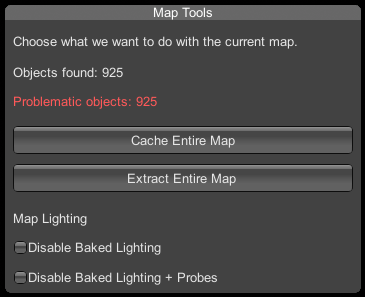
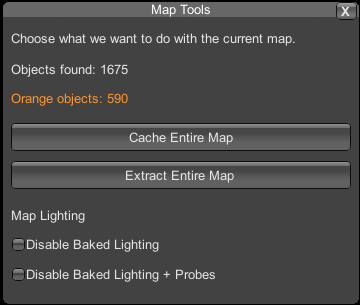
Update Quick Pick picking and settings docs

Changed region(s): [[0.0, 0.0, 1.0, 1.0]]

diff --git a/index.html b/index.html
@@ -361,7 +361,7 @@
     onload="window.pandarinkaTrackGoatCounterPage && window.pandarinkaTrackGoatCounterPage()"></script>
   <script>
     (function () {
-      var docsBuild = "20260809-map-tools-callout-2";
+      var docsBuild = "20260810-quick-pick-400-settings-1";
       var shouldBustDocsCache = true;
       var nativeOpen = XMLHttpRequest.prototype.open;
 

diff --git a/quick-pick.md b/quick-pick.md
@@ -32,9 +32,12 @@ When the pick key is held, Quick Pick blocks camera movement so the viewport doe
 
 The hover preview shows the object area and name. If several objects overlap, the preview shows an index like `1/3`. Scroll the mouse wheel to cycle through the candidates before clicking.
 
-For characters, aim near the head when several characters are close together, overlapping, or playing animations.
+Object colors help you understand what Quick Pick found:
 
-For very small objects, objects behind other objects, or objects inside other objects, move the camera closer, change the angle, or use the mouse wheel to choose the exact candidate.
+- **Purple objects** are standard map objects successfully extracted as independent Studio items.
+- **Orange objects** are map pieces that were originally merged into a larger static mesh for performance. Quick Pick separates them from that combined structure and makes them movable again.
+
+Orange indicates a recovered combined object, not a broken one.
 
 ## Mesh Picking Mode
 
@@ -42,7 +45,7 @@ For very small objects, objects behind other objects, or objects inside other ob
   <img src="assets/images/quick-pick-mesh-character-picking.gif" alt="Quick Pick mesh picking mode with character support">
 </p>
 
-**Mesh Picking Mode** is an optional precise picking mode for **Alt** picking. It lets Quick Pick detect objects and characters by their actual mesh shape instead of only using the older broad bounds-based hover.
+**Mesh Picking Mode** is the standard precise picking mode for **Alt** picking. It lets Quick Pick detect objects and characters by their actual mesh shape.
 
 Mouse wheel cycling between overlapping hover candidates still works in this mode.
 
@@ -92,7 +95,7 @@ BepInEx\Config\Pandarinka.QuickPick.ItemCache.txt
 
 **Reverse Extraction** is available when Quick Pick can safely return the extracted item back to its original live map object. It removes the extracted Studio item and enables the original source object again.
 
-Some map objects are marked as problematic. This usually means the source object is built in a way that is hard to move or cache reliably, such as static batching, combined meshes, or other optimized map structures.
+Some map pieces are shown as orange after extraction. These are recovered combined objects, not broken assets.
 
 ## Advanced Item Search
 
@@ -118,8 +121,6 @@ If you want to use objects from several different maps in one scene, cache them 
 
 Cached assets keep source map information. This allows Quick Pick to restore or rebuild them later, including when you move them to another map. If the cached asset comes from a different map, Quick Pick uses its saved source data to find the original asset again.
 
-Red/problematic assets should not be treated as fully reliable cache items. They are marked because the source object is built in a problematic way and may not behave like a clean Studio item.
-
 ## Map Tools
 
 <p class="guide-image">
@@ -132,7 +133,7 @@ Open **Map Tools** with **Ctrl+M** or the Quick Pick toolbar icon.
 
 **Extract Entire Map** creates a Studio folder named after the current map and extracts the map objects into that folder.
 
-The window shows how many map objects were found and how many of them are problematic. Large maps can take time to process, so wait until the operation finishes before saving, loading, or changing maps.
+The window shows how many map objects were found and how many of them are orange combined objects. Large maps can take time to process, so wait until the operation finishes before saving, loading, or changing maps.
 
 If you want to use objects from several maps, use **Cache Entire Map** first. After that you can extract what you need. **Extract Entire Map** only puts the current map objects into the Studio tree.
 
@@ -151,48 +152,45 @@ If you want to use objects from several maps, use **Cache Entire Map** first. Af
 ## Settings
 
 <p class="guide-image">
-  <img src="assets/images/quick-pick-settings.png" alt="Quick Pick settings">
+  <img src="assets/images/quick-pick-options.png" alt="Quick Pick options">
 </p>
 
 The main config options are:
 
 ```text
+General
 Enabled: On
-Hold Key: LeftAlt
-Map Tools Hotkey: Ctrl+M
+
+Input
 Allow Either Alt: On
+Hold Key: Left Alt
+Map Tools Hotkey: M + LeftControl
+
+Map Extraction
+Enabled: On
+
+Picking
 Ignore UI: On
+
+Preview
+Refresh Seconds: 0.05
 Show Hover Preview: On
+
+UI
+Custom Checkbox Background
+Custom Checkbox Check
+Custom Mesh Overlay Color
+Custom Preview Fill Color
+Custom Preview Label Background
+Custom Preview Label Text
+Custom Preview Outline Color
+Default Extracted Node Color
 Enable Checkboxes: On
+Orange Extracted Node Color
+Problematic Extracted Node Color
 ```
 
-All Quick Pick UI colors can be changed in the plugin settings, including hover preview colors, label colors, checkbox colors, and extracted/problematic node colors.
-
-Object type options are off by default for special Studio objects:
-
-```text
-Include Lights: Off
-Include Cameras: Off
-Include Folders: Off
-Include Routes: Off
-```
-
-Turn them on only if you want Quick Pick to select those object types from the viewport.
-
-Picking sensitivity can also be adjusted in the config:
-
-```text
-Pick Padding Pixels
-Min Rect Size Pixels
-Object Ray Distance Threshold
-Character Ray Distance Threshold
-Ray Size Penalty
-Character Head Pick Width Pixels
-Character Head Pick Height Pixels
-Character Head Vertical Offset Pixels
-```
-
-Increase padding or minimum rectangle size when tiny objects are hard to grab. Lower them if large nearby objects are winning too often.
+All Quick Pick UI colors can be changed in the plugin settings, including checkbox colors, mesh overlay color, preview colors, label colors, and extracted node colors.
 
 ## Common Problems
 
@@ -208,17 +206,17 @@ Use the mouse wheel while holding **Alt** to cycle through overlapping candidate
 
 Disable that node with the tree checkbox, then try picking again. Turn the node back on later if you need it.
 
-**A map object extracts, but cannot be moved normally.**
+**An extracted map object is orange.**
 
-That source object is a problematic map object. Quick Pick marks these objects in red. Some maps use static batching, combined meshes, or special engine structures that cannot behave like clean Studio items.
+Orange means Quick Pick recovered a map piece that was originally merged into a larger combined mesh. It is not broken; it is a recovered combined object.
 
-**Cached or extracted map objects load as missing red objects.**
+**Cached or extracted map objects load as missing objects.**
 
 Update [Quick Pick](quick-pick.md), make sure the source map is available, and load the scene with Scene Browser when possible. [Scene Browser separate import](scene-browser-pro.md) is supported by the newer Quick Pick and Scene Browser versions.
 
 **A cached asset does not show in Advanced Item Search.**
 
-Install or update [Advanced Item Search](https://gofile.io/d/m03H5K), then reopen its window or refresh the list. Make sure the object was actually added with **Add To Item Cache** or **Cache Entire Map**. Red/problematic objects are not reliable cache assets.
+Install or update [Advanced Item Search](https://gofile.io/d/m03H5K), then reopen its window or refresh the list. Make sure the object was actually added with **Add To Item Cache** or **Cache Entire Map**.
 
 **Cached objects spawn as spheres, but keep the correct name.**
 
